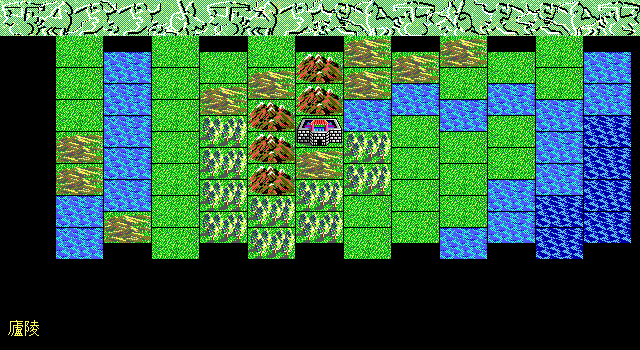
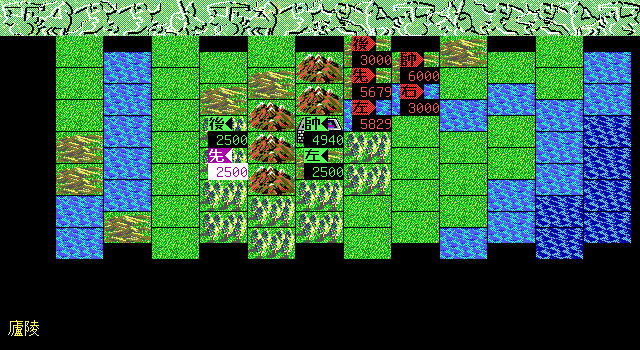
README 的主戰場截圖換成有部隊的版本
地形與旗都接原版素材，反白的那一面是輪到下令的部隊。

Changed region(s): [[0.4688, 0.0857, 0.6875, 0.5143], [0.3125, 0.3143, 0.4062, 0.5143]]

diff --git a/README.md b/README.md
@@ -27,15 +27,19 @@
 上圖是讓電腦跑六個月之後的中平六年七月，秋收正好落在這個月
 （原版的四季常式一年各跑一次，分派器比的是月份 1／4／7／10）。
 
-![主戰場的地形](docs/images/battle.png)
+![主戰場](docs/images/battle.png)
 
-主戰場的地形。圖塊是原版的——`EICON.GRP` 是三十六筆 48×32 的 `.IMG`
-首尾相接，**圖塊編號就是地形碼**。與原版紮完寨之後的畫面逐格比，
-78 格裡 73 格逐像素全中，差的五格正是五支部隊站的位置。
+主戰場。圖塊是原版的——`EICON.GRP` 是三十六筆 48×32 的 `.IMG` 首尾相接，
+**圖塊編號就是地形碼**。與原版紮完寨之後的畫面逐格比，78 格裡 73 格
+逐像素全中，差的五格正是五支部隊站的位置。
+
+部隊的旗也是原版的。四組 `WFLAG` 對上四個軍力（主守、助守、主攻、
+助攻），旗面上印著帥、先、左、右、後——中軍、先鋒、左軍、右軍、後軍。
+輪到下令的那一支畫成**反白**，與原版一樣是整面旗取顏色補數。
+兵力牌的位置、大小與字色照原版，數字用 remake 自己的字庫。
 
 上方花邊與主畫面共用同一張 `MAINMAP1`（原版也是這樣畫的）。
-**接上素材的只有地形與花邊**：部隊的旗、指令列與左右面板還是
-remake 自己畫的。
+指令列與左右面板還是 remake 自己畫的。
 
 ![沒有原版素材時的版面](docs/images/main-text.png)
 
